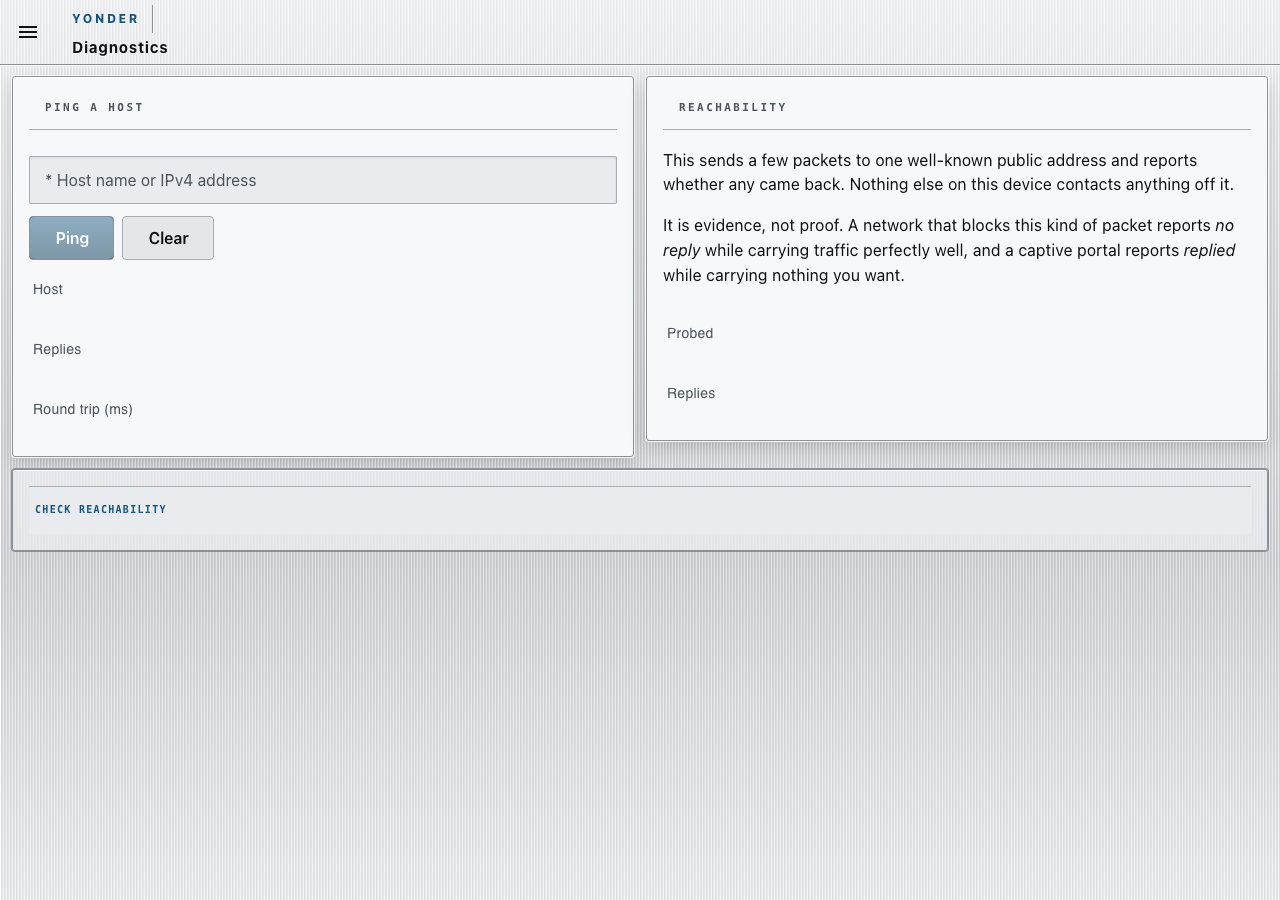
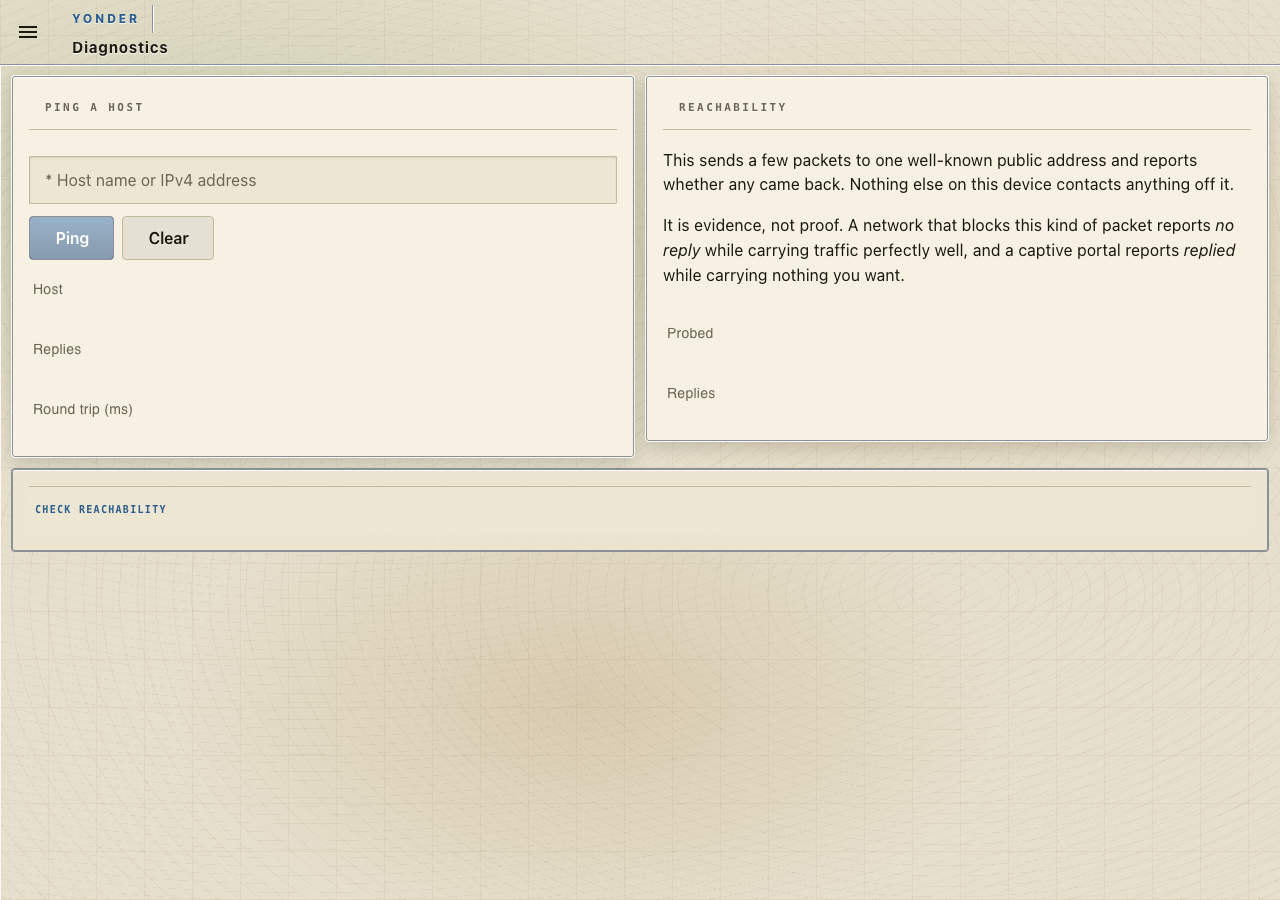
feat(console): make the sunlight mode the chart it should have been
The third palette shipped as brushed aluminium with neutral grey panels. It
satisfied R-UI-14 — light face, light ground, dark readings, nothing moved —
and it had no chart in it at all. That is the failure this ADR was written to
stop, in the mode most obviously suited to avoiding it: constraints met,
identity absent.

Sunlight is the one mode read the way a sectional is read, so it is drawn that
way. Warm chart paper for the faces rather than neutral grey — a sectional is
printed on buff, and the warmth is what keeps a light page from glaring.
Sectional blue for anything addressable, sectional magenta for the one control
that takes the page away; a light mode reusing the glass display's cyan is a
light page wearing a dark page's colours.

And the ground is what a chart is of. Broad hypsometric washes — low green
through buff to tan, the sectional's own elevation tints — under faint contour
rings and the graticule ticks a sectional carries. Terrain from above on a
clear day, generated from gradients like the carbon and never fetched
(R-UI-13).

Four strengths were rendered side by side and looked at before one was chosen,
which is the step that was missing when the carbon shipped invisible and again
when it shipped overpowering. Washes alone had no chart character; washes and
contours without the graticule read as a stain; half strength read as nothing.
Washes, contours and graticule together read as land.
[…]

diff --git a/packages/yonder-core/src/console/theme.ts b/packages/yonder-core/src/console/theme.ts
@@ -172,25 +172,29 @@ const NIGHT: Palette = {
  * suggestion, not a reading.
  */
 const SUNLIGHT: Palette = {
-  background: "#d8dade",
-  surface: "#f7f8f9",
-  border: "#a8aeb5",
-  text: "#0d1114",
-  muted: "#4b545c",
-  accent: "#14567f",
-  neutral: "#5c666e",
-  waiting: "#8a5a00",
-  good: "#136c3a",
-  bad: "#9c1f16",
+  // Chart paper and chart line work. Warm rather than neutral: a sectional is
+  // printed on buff, and the warmth is what keeps a light page from glaring.
+  background: "#e6dfcc",
+  surface: "#f6f1e3",
+  border: "#c3b99e",
+  text: "#1b1811",
+  muted: "#6d6555",
+  // Sectional blue for anything addressable, sectional magenta for the one
+  // control that takes the page away. Both are the chart's own vocabulary.
+  accent: "#2c5f8f",
+  neutral: "#7a7263",
+  waiting: "#9a6a1c",
+  good: "#2f6b4f",
+  bad: "#a8322c",
   onTone: "#ffffff",
-  display: "#f7f8f9",
-  pane: "#e9ebee",
-  divider: "#a8aeb5",
-  label: "#4b545c",
-  value: "#0d1114",
-  track: "#dcdfe3",
-  select: "#14567f",
-  irreversible: "#a3186f",
+  display: "#f6f1e3",
+  pane: "#ede6d3",
+  divider: "#c3b99e",
+  label: "#6d6555",
+  value: "#1b1811",
+  track: "#e0d8c2",
+  select: "#2c5f8f",
+  irreversible: "#b23a7a",
 };
 
 export const PALETTES: Record<ThemeName, Palette> = {
@@ -271,28 +275,35 @@ function panelCss(theme: ThemeName): string {
   background-attachment: fixed;
 }`;
 
-  /* Brushed aluminium: a fine vertical grain under a broad horizontal sheen.
-     The grain is 3px and low-contrast for the same reason the weave is 10px -
-     a panel you can read the texture of is a panel competing with the
-     instruments bolted to it. */
-  const aluminium = `.nrdb-app,
+  /* Terrain, seen from above on a clear day.
+     
+     Sunlight is the chart mode, so its ground is the thing a chart is of.
+     Broad hypsometric washes - low green through buff to tan, the sectional's
+     own elevation tints - under faint contour rings and the graticule ticks a
+     sectional carries. All from gradients, so nothing is fetched and nothing
+     ships as raster (R-UI-13), and it costs one paint rather than a file per
+     theme.
+
+     Held deliberately quiet, for the reason the carbon weave is: this is
+     ground, and an operator reads the instruments bolted to it. Four
+     strengths were rendered side by side before this one was chosen. */
+  const terrain = `.nrdb-app,
 .v-application,
 .v-application__wrap {
-  background-color: #d8dade;
+  background-color: #e6dfcc;
   background-image:
-    linear-gradient(180deg, rgba(255,255,255,0.55) 0%, rgba(255,255,255,0) 38%,
-                    rgba(0,0,0,0.05) 62%, rgba(255,255,255,0.35) 100%),
-    repeating-linear-gradient(90deg,
-      rgba(255,255,255,0.55) 0 1px,
-      rgba(0,0,0,0.045) 1px 2px,
-      transparent 2px 3px);
-  background-size: 100% 100%, 3px 3px;
-  background-position: 0 0, 0 0;
+    repeating-linear-gradient(0deg, rgba(90,72,40,0.05) 0 1px, transparent 1px 48px),
+    repeating-linear-gradient(90deg, rgba(90,72,40,0.05) 0 1px, transparent 1px 48px),
+    repeating-radial-gradient(ellipse 52% 40% at 24% 30%, transparent 0 15px, rgba(122,98,58,0.075) 15px 16px),
+    repeating-radial-gradient(ellipse 46% 38% at 74% 66%, transparent 0 17px, rgba(122,98,58,0.065) 17px 18px),
+    radial-gradient(60% 45% at 18% 22%, rgba(150,168,120,0.30), transparent 70%),
+    radial-gradient(52% 40% at 72% 30%, rgba(198,176,124,0.34), transparent 72%),
+    radial-gradient(46% 38% at 46% 78%, rgba(176,142,92,0.26), transparent 70%);
   background-repeat: repeat;
   background-attachment: fixed;
 }`;
 
-  return theme === "sunlight" ? aluminium : carbon;
+  return theme === "sunlight" ? terrain : carbon;
 }
 
 /**

diff --git a/packages/yonder-core/src/console/theme.test.ts b/packages/yonder-core/src/console/theme.test.ts
@@ -257,23 +257,44 @@ describe("themeCss ships a whole shell", () => {
   });
 
   /**
-   * Sunlight is mounted in aluminium, not carbon (R-UI-14).
+   * Sunlight is mounted on terrain, not carbon (R-UI-14, R-UI-13).
    *
-   * Carbon is a dark material and the whole point of the third mode is that
-   * the page turns over, so the panel has to turn over with it. Same rule,
-   * same element, different material — and it still has to say it repeats.
+   * That mode is the chart mode, so its ground is what a chart is of: broad
+   * hypsometric washes under contour rings and a graticule. Carbon is a dark
+   * material and the point of the mode is that the page turns over, so the
+   * ground turns over with it. Still generated, still tiling, still nothing
+   * fetched.
    */
-  it("mounts the sunlight palette in brushed aluminium instead", () => {
+  it("grounds the sunlight palette in terrain instead of carbon", () => {
     const css = themeCss("sunlight");
     const rule = /\.nrdb-app,[\s\S]*?\}/.exec(css)?.[0] ?? "";
-    expect(rule, "no panel rule for sunlight").not.toBe("");
+    expect(rule, "no ground rule for sunlight").not.toBe("");
     expect(rule, "sunlight must not be carbon").not.toMatch(/linear-gradient\(135deg/);
-    expect(rule, "aluminium is a vertical grain").toMatch(/repeating-linear-gradient\(90deg/);
+    expect(rule, "contours").toMatch(/repeating-radial-gradient/);
+    expect(rule, "the graticule a sectional carries").toMatch(/repeating-linear-gradient\(0deg/);
+    expect(rule, "hypsometric washes").toMatch(/radial-gradient\(\d+% \d+% at /);
     expect(rule).toMatch(/background-repeat:\s*repeat/);
-    // A light panel, not a dark one wearing a light display.
     const base = /background-color:\s*(#[0-9a-f]{6})/i.exec(rule)?.[1] ?? "#000000";
-    expect(parseInt(base.slice(1), 16), "the sunlight panel must be light")
+    expect(parseInt(base.slice(1), 16), "the sunlight ground must be light")
       .toBeGreaterThan(0x999999);
+  });
+
+  /**
+   * The chart's own vocabulary, in the chart's own mode.
+   *
+   * Sectional blue for anything addressable and sectional magenta for the one
+   * control that takes the page away. A light mode reusing the glass display's
+   * cyan would be a light page wearing a dark page's colours.
+   */
+  it("uses chart line work for the sunlight palette", () => {
+    expect(PALETTES.sunlight.select).toBe("#2c5f8f");
+    expect(PALETTES.sunlight.irreversible).toBe("#b23a7a");
+    // Warm paper, not neutral grey: a sectional is printed on buff, and the
+    // warmth is what keeps a light page from glaring.
+    const hex = PALETTES.sunlight.display;
+    const r = parseInt(hex.slice(1, 3), 16);
+    const b = parseInt(hex.slice(5, 7), 16);
+    expect(r, "the chart face must be warm").toBeGreaterThan(b);
   });
 
   it("sizes anything hittable for a gloved finger", () => {

diff --git a/docs/adr/0009-console-visual-language.md b/docs/adr/0009-console-visual-language.md
@@ -140,12 +140,22 @@ command-state language remains built once in `yonder-core` and shared.
 screen is a mirror at *any* brightness, and no amount of contrast recovers a reflection of
 the sky.
 
-It is the same instrument in a different material, and that is the whole of it. The
-reading surface goes to near-white — never white, because a page in sunlight should not be
-a light source of its own — and the panel becomes brushed aluminium instead of carbon,
-since carbon is a dark material and the point of the mode is that the page turns over.
-Nothing moves. No element appears or disappears. An operator stepping out of the shade is
+It is the same instrument in a different material, and that is the whole of it. Nothing
+moves, no element appears or disappears, and an operator stepping out of the shade is
 looking at the console they already know.
+
+**The material is the chart.** Sunlight is the one mode that is read the way a sectional
+is read, so it is drawn that way: warm chart paper for the faces — never white, because a
+page in sunlight should not be a light source of its own — sectional blue for anything
+addressable, sectional magenta for the one control that takes the page away, and the
+ground is what a chart is *of*. Broad hypsometric washes, low green through buff to tan,
+under faint contour rings and the graticule ticks a sectional carries. Terrain from above
+on a clear day, generated from gradients like the carbon and held just as quiet, because
+it is ground and the instruments bolted to it are what get read.
+
+A first attempt made this mode brushed aluminium with neutral grey panels. It satisfied
+every requirement and had no chart in it at all, which is the same failure this ADR was
+written to stop: the constraints met, the identity absent.
 
 Recorded as **R-UI-14**, and `ui.theme` now takes `day`, `night` or `sunlight`. The
 capture gate photographs all three on every run.
